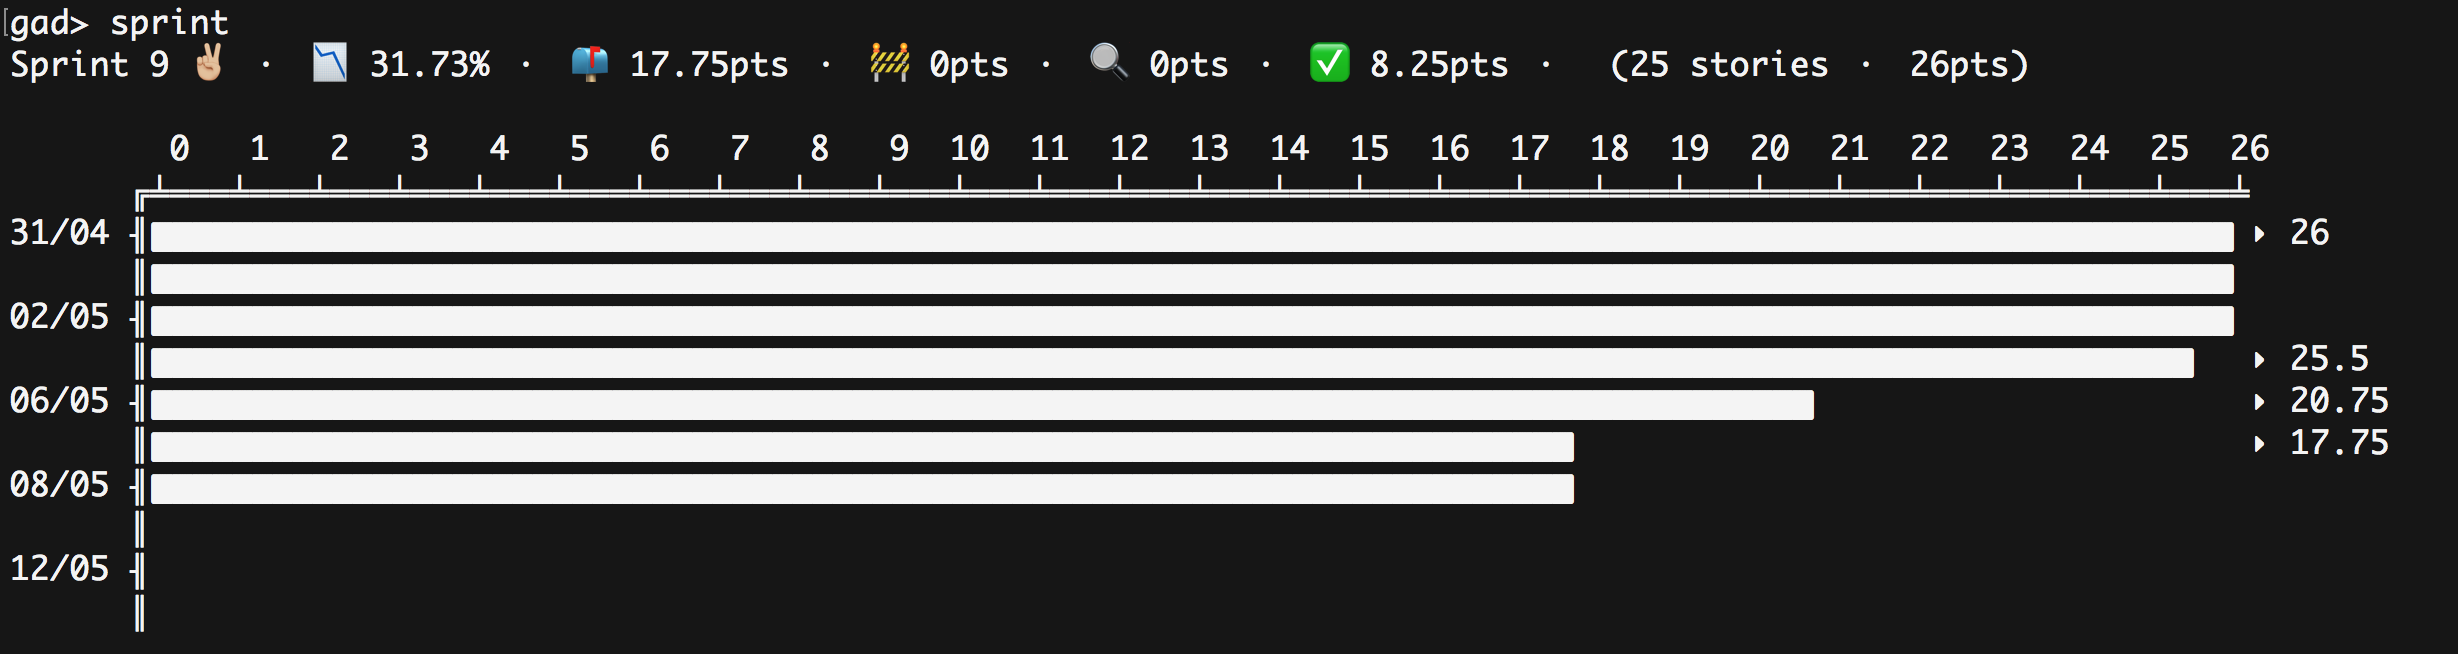
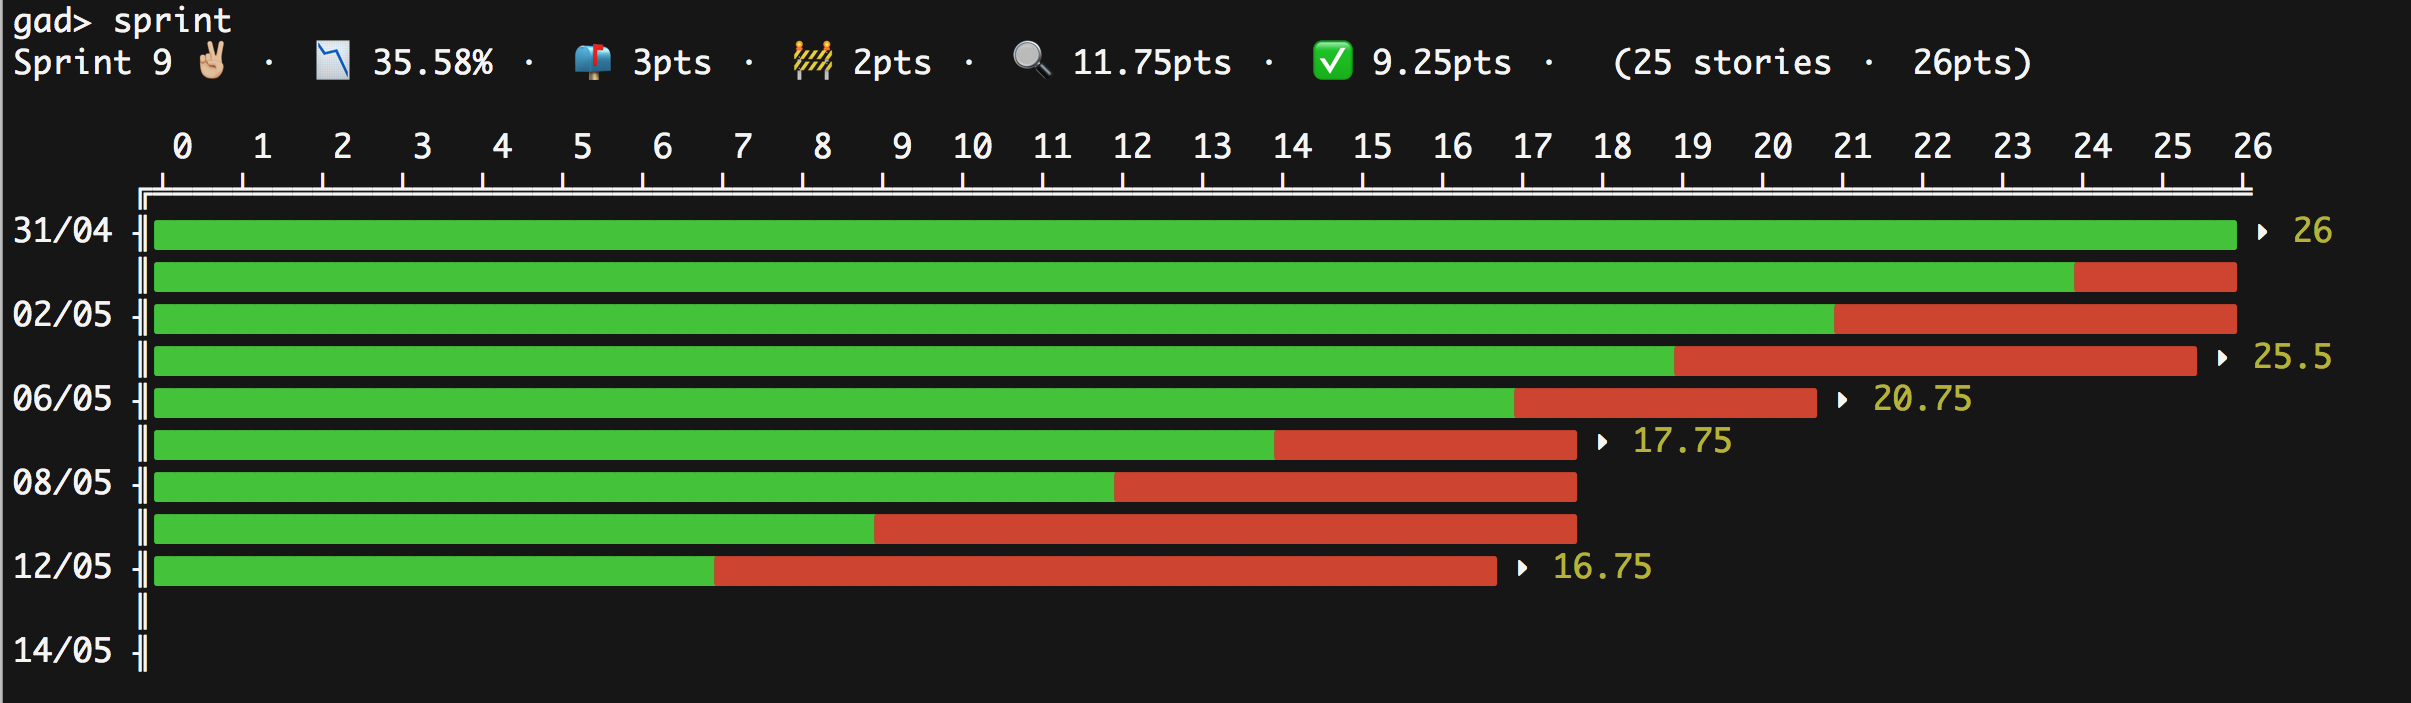
Added some colors

diff --git a/src/Display/BurnDownChart.js b/src/Display/BurnDownChart.js
@@ -1,4 +1,5 @@
 const DateUtil = require('../Util/DateUtil');
+const { blue, green, red, cyan, yellow } = require('../Util/colors');
 
 class BurnDownChart {
     /**
@@ -41,6 +42,7 @@ class BurnDownChart {
         const burnDown = this.getBurnDown(this.milestone);
         const labelLength = Array.from(burnDown.keys()).reduce((max, label) => Math.max(label.length, max), 0);
         const maxPoints = Math.ceil(this.milestone.points);
+        const pointsPerDay = maxPoints / burnDown.size;
         const lines = [
            gutter('', ' ', labelLength - 1) + (new Array(maxPoints + 1).fill(' ').map((value, index) => gutter(index)).join('')),
            gutter('', ' ', labelLength) + ' ╔╧' + gutter('╧', '═').repeat(maxPoints)
@@ -52,8 +54,11 @@ class BurnDownChart {
             const showLabel = index % 2 === 0;
             const label = gutter(showLabel ? day : '', ' ', labelLength);
             const border = showLabel ? '╢' : '║';
-            const content = '🀫'.repeat(dayWidth * points);
-            const note = points && lastPoints !== points ? ' '.repeat(dayWidth * (this.milestone.points - points)) + ' ‣ ' + points.toString() : '';
+            const objectif = Math.round(maxPoints - index * pointsPerDay);
+            const good = Math.min(points, objectif);
+            const missing = points - good;
+            const content = green('🀫'.repeat(dayWidth * good)) + red('🀫'.repeat(dayWidth * missing));
+            const note = points && lastPoints !== points ? ' ‣ ' + yellow(points.toString()) : '';
             lastPoints = points;
             lines.push(label + ' ' + border + content + note);
         });

diff --git a/src/Util/colors.js b/src/Util/colors.js
@@ -1,0 +1,52 @@
+const control = {
+    reset: "\x1b[0m",
+    bright: "\x1b[1m",
+    dim: "\x1b[2m",
+    underscore: "\x1b[4m",
+    blink: "\x1b[5m",
+    reverse: "\x1b[7m",
+    hidden: "\x1b[8m",
+};
+
+const text = {
+    black: "\x1b[30m",
+    red: "\x1b[31m",
+    green: "\x1b[32m",
+    yellow: "\x1b[33m",
+    blue: "\x1b[34m",
+    magenta: "\x1b[35m",
+    cyan: "\x1b[36m",
+    white: "\x1b[37m",
+};
+
+const background = {
+    black: "\x1b[40m",
+    red: "\x1b[41m",
+    green: "\x1b[42m",
+    yellow: "\x1b[43m",
+    blue: "\x1b[44m",
+    magenta: "\x1b[45m",
+    cyan: "\x1b[46m",
+    white: "\x1b[47m",
+};
+
+function applyText(message, color) {
+    return `${text[color]}${message}${control.reset}`;
+}
+
+function applyBackground(message, color) {
+    return `${background[color]}${message}${control.reset}`;
+}
+
+module.exports = {
+    color: applyText,
+    background: applyBackground,
+    black: (message) => applyText(message, 'black'),
+    red: (message) => applyText(message, 'red'),
+    green: (message) => applyText(message, 'green'),
+    yellow: (message) => applyText(message, 'yellow'),
+    blue: (message) => applyText(message, 'blue'),
+    magenta: (message) => applyText(message, 'magenta'),
+    cyan: (message) => applyText(message, 'cyan'),
+    white: (message) => applyText(message, 'white'),
+};

diff --git a/src/GithubAgileDashboard.js b/src/GithubAgileDashboard.js
@@ -1,6 +1,7 @@
 const CLI = require('./CLI');
 const Project = require('./GitHub/Project');
 const HttpLoader = require('./Loader/HttpLoader');
+const { green } = require('./Util/colors');
 
 class GithubAgileDashboard {
     /**
@@ -85,7 +86,7 @@ class GithubAgileDashboard {
             return this.cli.result('Nothing to review. Good job! 👍');
         }
 
-        this.cli.result([`🔍  ${length} pull requests awaiting your review:`]
+        this.cli.result([`🔍  ${green(length)} pull requests awaiting your review:`]
             .concat(pullRequests.map(pullRequest => pullRequest.display()))
             .join('\r\n'));
     }

diff --git a/src/GitHub/PullRequest.js b/src/GitHub/PullRequest.js
@@ -1,4 +1,5 @@
 const DateUtil = require('../Util/DateUtil');
+const { cyan, yellow } = require('../Util/colors');
 
 class PullRequest {
     /**
@@ -81,7 +82,7 @@ class PullRequest {
     display() {
         const { number, title, user } = this;
 
-        return `#${number} "${title}" by ${user}`;
+        return `${cyan(number)} by ${yellow(user)} "${title}"`;
     }
 
     /**

diff --git a/src/Loader/HttpLoader.js b/src/Loader/HttpLoader.js
@@ -87,7 +87,7 @@ class HttpLoader {
     addIssue(data) {
         const index = this.data.findIndex(issue => issue.id === data.id);
 
-        if (typeof data.pull_request !== 'undefined') {
+        if (typeof data.pull_request !== 'undefined' && data.state === 'open') {
             const { repo, owner } = this;
             const { id, number } = data;
 

diff --git a/src/GitHub/Project.js b/src/GitHub/Project.js
@@ -52,7 +52,7 @@ class Project {
     }
 
     /**
-     * Get Pull Requests that are awiating review from the given user
+     * Get Pull Requests that are awaiting review from the given user
      *
      * @param {String} user
      *

diff --git a/README.md b/README.md
@@ -32,6 +32,7 @@ In your projet repository, just enter `gad`.
 | __sprint__ | Show the state of the current sprint |
 | __sprints__ | Show the state of all sprints |
 | __backlog__ | Show the state of the backlog |
+| __review__ | Display PullRequest that are awaiting your review |
 | __status__ | Show the status of the repository |
 | __help__ | Show list of commands |
 | __exit__ | Quit the dashboard |
